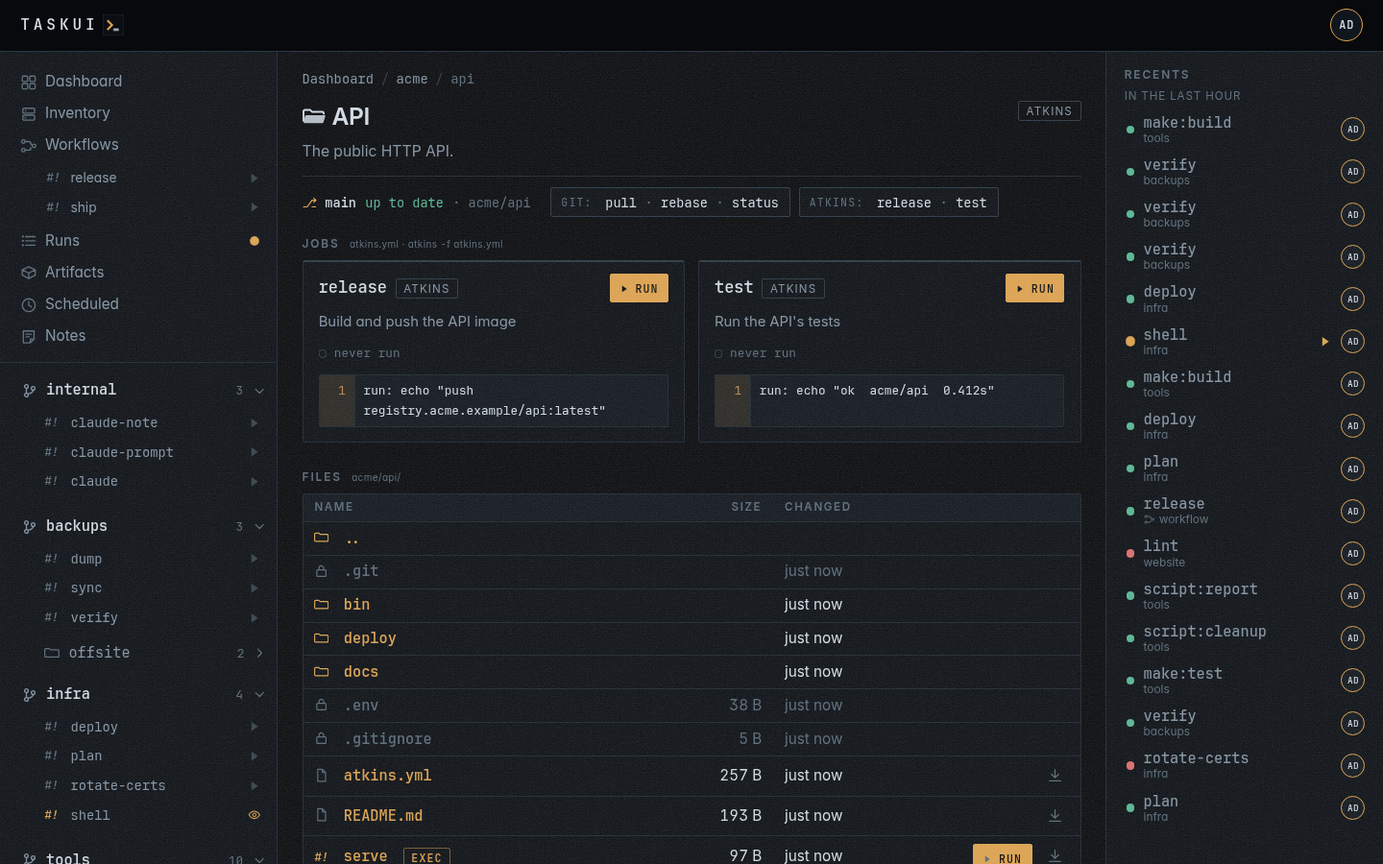
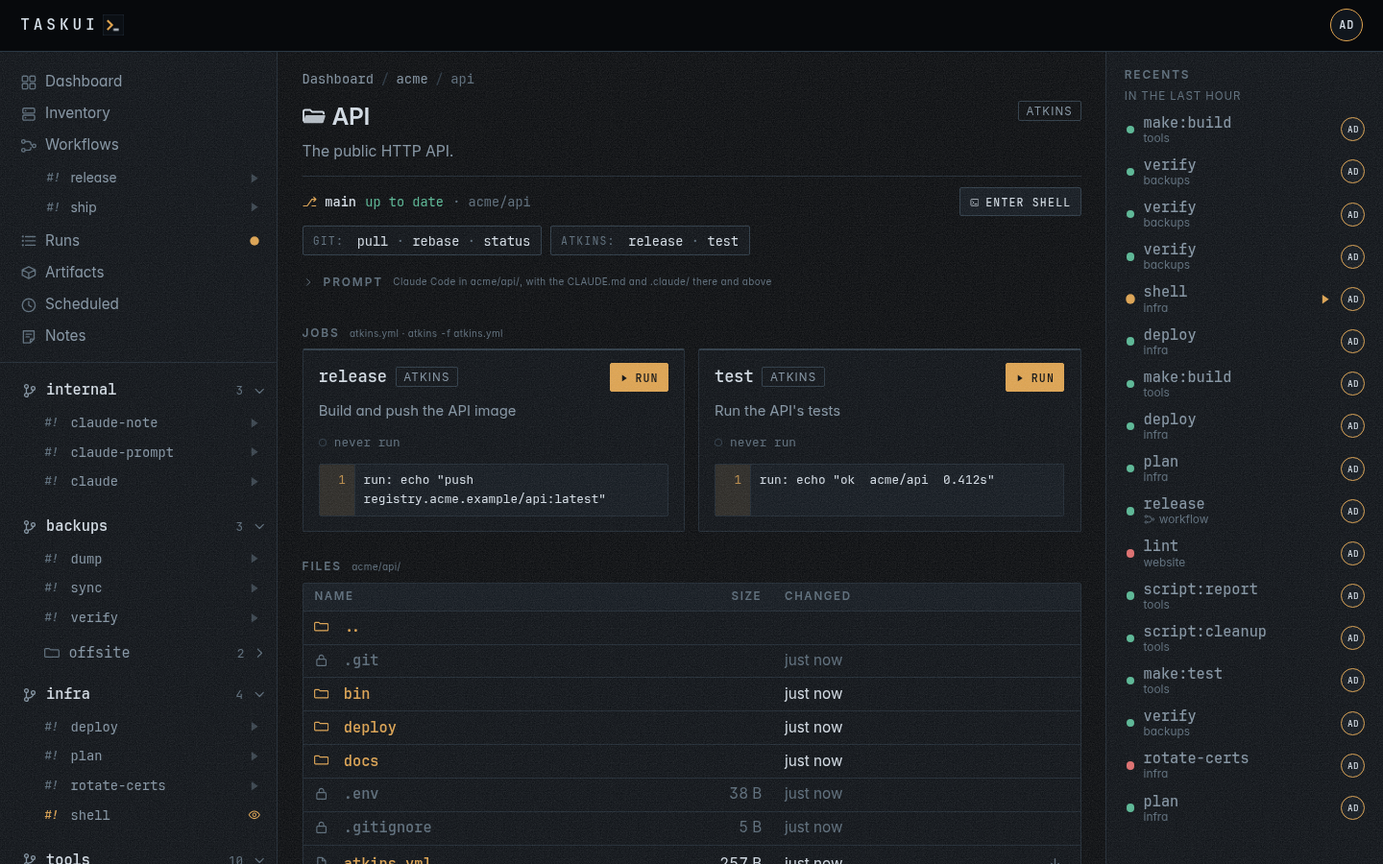
Docs: the actions bar, skills, Enter Shell and prompts; current shots
projects.md explains the git line, the chips and `...` for a job that
takes arguments, and where a prompt box opens. workspaces.md gains a
Skills section (when files/here/contains, a job's own when, args with
exec, an example compose skill, a link to the atkins guide), and its
atkins bullet says a project with its own pipeline still gets the
workspace's skills. mcp.md says what run_job takes: no dir or args, and
@shell answers 403 to all but an admin. notes.md and api.md name
TASK_UI_PROMPT_DIR and the prompt lock per directory on both routes.

#args=<job>;<line> opens a job's arguments field on load, for a link
and for the new args-dark shot. demo.sh captures it; the folder, files,
tools, sidebar, workspace prompt and actions shots show Enter Shell and
the bar as they are. README mentions the actions bar.

diff --git a/frontend/view/assets/task-ui.js b/frontend/view/assets/task-ui.js
@@ -2440,6 +2440,24 @@
     }
   })();
 
+  // #args=<job>[;<line>] opens the arguments field of a job on the page,
+  // the line typed in, so the field and what it runs can be shared.
+  (function openArgsFromHash() {
+    var match = /^#args=([^;]+)(?:;(.*))?$/.exec(location.hash);
+    if (!match) return;
+    var job = decodeURIComponent(match[1]);
+    var btn = Array.prototype.find.call(document.querySelectorAll("[data-run][data-args]"), function (b) {
+      return b.dataset.job === job;
+    });
+    if (!btn) return;
+    btn.click();
+    var input = document.querySelector("form.argsline input");
+    if (input && match[2]) {
+      input.value = decodeURIComponent(match[2]);
+      input.dispatchEvent(new Event("input"));
+    }
+  })();
+
   // The sidebar is a drawer under the breakpoint. #menu opens it on load.
   var menuToggle = document.getElementById("menu-toggle");
   if (menuToggle) {

diff --git a/docs/api.md b/docs/api.md
@@ -30,7 +30,7 @@ route or a tool only for a need these cannot serve, and states the reason.
 | `dir` and `args` on `POST /api/runs`, `dir` and `args` on run rows, `takes_args` and `exec` on jobs | The job cards of a directory inside a folder, such as `malta/dockerfiles` in the checkout of `malta`: that directory's own targets, run there under the folder's rules, which no folder or job ID named, and arguments for an atkins job that declares `args: true`, which reach it after `--` as argv; `exec` is the command they follow, the argv of the job's `exec:` step, for the field that takes them to show what runs. Run again repeats both. Schema `run_dir_args` adds the two columns |
 | `GET /api/folders/{id}/actions?dir=`, `@<skill>:<job>` as `job`, `dir` on `GET /api/runs` | The actions bar of a folder page and of a directory inside a folder: the git line of the checkout and the jobs of the atkins skills that apply in that directory. `/api/folders` lists the catalogued jobs only, and no route read `git status` or asked atkins for skills; a skill job had no job ID. A skill job runs `atkins <skill>:<job>` under the folder's rules; `run_job`, schedules and workflow steps take it too. `dir` with `job` on the runs listing keeps one directory's job apart from the folder's job of the same name. Read only, for whoever sees the folder |
 | `@shell` as `job` on `POST /api/runs` | **Enter Shell** in the actions bar: an admin's interactive `bash -l` in a folder's directory, or a directory inside it, which no job of a folder runs. `403` for anyone but an admin, whatever the folder allows; no schedule or workflow step takes it |
-| `POST /api/prompts` | The **Prompt** box of every folder page and every directory inside a folder: Claude Code on a prompt in that directory. `/api/workspaces/{folder}/prompt` names a workspace and no directory inside it, and runs one prompt at a time for the instance; a prompt holds its directory alone |
+| `POST /api/prompts` | The **Prompt** box of every folder page and every directory inside a folder: Claude Code on a prompt in that directory. `/api/workspaces/{folder}/prompt` names a workspace and no directory inside it; a prompt holds its directory alone, on either route |
 | `summarize` on `POST /api/inventory/run` | **Run and summarize** on the Inventory page: Claude reads every host's output as one report, after the run, in the same request |
 
 | Method | Path | Does |
@@ -59,7 +59,7 @@ route or a tool only for a need these cannot serve, and states the reason.
 | `POST` | `/api/inventory/run` | `{command, hosts, summarize}`: runs the command on the hosts over their ssh logins at once, every host with a login when `hosts` is empty; each host's `output`, `exit_code` and `error` (admins). With `summarize`, also the markdown `report` of every output and Claude's `summary` of it, or `summary_error` |
 | `GET` `POST` `PUT` `DELETE` | `/api/projects`, `/api/projects/{folder}` | clone `{url, id, branch, workspace}`, into `<workspace>/<id>` when `workspace` names one, at the root for `_` or empty; `409` at the root for a workspace's name or a directory there; configure `{title, description, allow, sources, commands, job_allow, hours, job_hours, workspace}`; a `workspace` other than the project's moves it, answering the row with `left`, and `409` for a workspace, a missing target, a taken ID or a run going |
 | `GET` `POST` `PUT` `DELETE` | `/api/workspaces`, `/api/workspaces/{folder}` | clone `{url, folder, title, description, branch}` into `<root>/<folder>`, with its key directories and no encryption key; `409` for a folder a workspace, a project or a directory holds; `PUT {title, description, sort}`, the lowest sort first, left out it stays; `DELETE` removes the checkout, the projects inside it and their rows, their managed env files, its secrets and its keys; the default workspace `_`, the root, lists first, keeps its sort, and `DELETE` answers `409` (admins) |
-| `POST` | `/api/workspaces/{folder}/prompt` `{prompt, cols, rows}` | starts `internal/claude-prompt` as you, with `TASK_UI_PROMPT` and the workspace in `TASK_UI_WORKSPACE_DIR`, and answers `201` with the run; `400` for an empty prompt, `409` while a prompt runs in the workspace's directory (admins) |
+| `POST` | `/api/workspaces/{folder}/prompt` `{prompt, cols, rows}` | starts `internal/claude-prompt` as you in the workspace's checkout, with `TASK_UI_PROMPT` and the workspace in `TASK_UI_WORKSPACE_DIR`, and answers `201` with the run; `400` for an empty prompt, `409` while a prompt runs in the workspace's directory (admins) |
 | `POST` | `/api/prompts` `{folder, dir, prompt, cols, rows}` | starts `internal/claude-prompt` as you in the folder's directory, or `dir` inside it, with `TASK_UI_PROMPT`, the directory in `TASK_UI_PROMPT_DIR` and the folder's workspace, and answers `201` with the run, whose `dir` is the directory under the root; `400` for an empty prompt, `404` for a directory the folder's Files would not open, `409` with the run while a prompt runs in that directory (admins) |
 | `POST` | `/api/workspaces/{folder}/export` `{passphrase}`, `/api/workspaces/import` (multipart: `bundle`, `passphrase`, `folder`) | export answers the workspace as `<folder>.taskui-ws`, encrypted to the passphrase: its row, projects, env files, secrets as ciphertext, key files and grants; import adds it under `folder`, the bundle's own when left out and required for `_`, clones its projects and answers `201 {workspace, projects: [{folder, cloned, output}], unknown_users}`; `400` for a wrong passphrase or a bundle it refuses, `409` for a folder held and for bundled keys held here for the other use or an encryption key another workspace holds, at most 64 MiB (admins) |
 | `GET` `POST` `PUT` `DELETE` | `/api/workspaces/{folder}/keys`, `/keys/generate`, `/keys/upload`, `/keys/{name}` | a workspace's keys, public halves and fingerprints only: `encrypt`, `keys` with their backups, `policies` and `users` by key name; generate `{type, name, comment, policies, users}`, upload `{content, name, comment, policies, users}` as `id_<type>_<name>`; a key without a grant goes to every run in the workspace; `PUT` sets `{policies, users}`, `DELETE` removes a key and its grants; `encrypt: true` on generate or upload adds the ed25519 encryption key a workspace starts without, or rotates or replaces it, which no run gets and no route deletes, and writes the workspace's secrets again, `rekeyed` their count, `rekey_error` when that fails and the backup still opens them; upload answers `409` for key material held for the other use by the instance or any workspace, and for an encryption key another workspace or the instance holds (admins) |

diff --git a/docs/guide/workspaces.md b/docs/guide/workspaces.md
@@ -28,12 +28,80 @@ find the workspace's files by looking in the folders above the project:
 - **Claude Code** reads the `CLAUDE.md` and `.claude/` of the folders
   above its working directory, so a run in `malta/dockerfiles` reads the
   workspace's as well as the project's own.
-- **atkins** looks for its configuration from the working directory up,
-  and stops at the first folder with an `atkins.yml`, an `.atkins.yml` or
-  an `.atkins/` folder. A project without one uses the workspace's
-  pipeline and its `.atkins/skills`. A project with its own `atkins.yml`
-  stops there: atkins reads the skills in the project's `.atkins/skills`
-  and in `$HOME/.atkins/skills`, and not the workspace's.
+- **atkins** looks for its pipeline from the working directory up, and
+  stops at the first folder with an `atkins.yml`, an `.atkins.yml` or an
+  `.atkins/` folder: a project without one runs the workspace's pipeline.
+  Its skills come from further: the `.atkins/skills` of the working
+  directory and of every folder above it, nearest first, then
+  `$HOME/.atkins/skills`. A project with a pipeline of its own still gets
+  the workspace's skills, and a project skill of the same name shadows
+  the workspace's.
+
+## Skills
+
+The skills of a workspace's `.atkins/skills/` put chips on the [actions
+bar](projects.md#actions) of every project and directory inside it:
+`[git: pull · rebase]` on each checkout, `[compose: down · up]` beside
+a compose file. A skill is an atkins
+pipeline file, `<name>.yml`, its jobs named `<name>:<job>`, and its
+`when:` decides where it applies:
+
+- `files:` lists the files that turn it on, any one of them, looked for
+  in the directory and then in each folder above it. A name with `*`,
+  `?` or `[...]` is a glob. A skill without `when:` applies everywhere.
+- `here: true` looks in the directory alone, so a compose skill shows on
+  the directory holding `compose.yml` and not on the folders under it.
+- `contains:` is a regular expression the matched file must match, such
+  as a compose file with a `build:` key.
+- A job takes a `when:` of its own, with the same keys. Where it fails,
+  the job has no chip and a run of it fails, and the rest of the skill
+  stays.
+- `args: true` on a job takes arguments after `--`, which atkins appends
+  to the job's `exec:` steps as argv, with no shell between. Its chip
+  reads `custom...` and opens a field for them (see
+  [Runs](runs.md#what-a-job-gets)).
+
+A skill job runs in the directory of the file its `when:` matched, so
+`git: pull` runs at the top of the checkout and `compose: up` beside the
+compose file. One without `when:` runs in the folder that holds its
+`.atkins/`.
+
+`<workspace>/.atkins/skills/compose.yml`:
+
+```yaml
+name: Docker Compose
+when:
+  files: [compose.yml, compose.yaml]
+  here: true
+
+jobs:
+  up:
+    desc: Start the services
+    cmd: docker compose up -d --remove-orphans
+  down:
+    desc: Stop and remove the services
+    cmd: docker compose down
+  build:
+    desc: Build the service images
+    when:
+      files: [compose.yml, compose.yaml]
+      here: true
+      contains: '(?m)^\s+build:'
+    cmd: docker compose build
+  custom:
+    desc: Run docker compose with arguments
+    args: true
+    steps:
+      - exec: [docker, compose]
+```
+
+In a directory whose `compose.yml` builds an image, the chip reads
+`[compose: build · custom... · down · up]`; beside one that only pulls
+images, the chip leaves `build` out. `atkins -l` in a directory lists what applies
+there, as the bar does. The atkins [skills
+guide](https://github.com/titpetric/atkins/blob/main/docs/content/usage/skills.md)
+covers the rest: aliases, `help:`, the `-l --json` fields task-ui reads,
+vendoring.
 
 ## Add, edit and delete
 
@@ -287,22 +355,22 @@ per trust boundary.
 
 ## A prompt against a workspace
 
-A workspace's folder page, `/f/malta`, carries a **Prompt** block for an
-admin once the [Claude Code integration](settings.md#integrations) has a
-token for them. The prompt runs `internal/claude-prompt` as you, and its
-window opens on the run.
+A workspace's folder page, `/f/malta`, carries the **Prompt** box open
+for an admin once the [Claude Code integration](settings.md#integrations)
+has a token for them; every other folder page, and every directory inside
+a folder, carries it folded (see [Prompt](projects.md#prompt)). The
+prompt runs `internal/claude-prompt` as you, and its window opens on the
+run.
 
-![The Prompt block on a workspace's page](../assets/workspace-prompt-dark.png)
+![The Prompt box on a workspace's page](../assets/workspace-prompt-dark.png)
 
 Claude Code works in the workspace's checkout, so it reads the
 workspace's `CLAUDE.md` and `.claude/`. The run's environment holds the
-prompt in `TASK_UI_PROMPT` and the checkout in `TASK_UI_WORKSPACE_DIR`;
-`task-ui agent prompt` works in `TASK_UI_PROMPT_DIR` when a prompt names
-a directory, and exits with an error when the prompt or both directories
-are empty. The run lists under Runs like any other, in the internal
-folder only admins see. Every folder page, and every directory inside a
-folder, takes a prompt the same way: see
-[Prompt](projects.md#prompt).
+prompt in `TASK_UI_PROMPT` and the checkout in `TASK_UI_WORKSPACE_DIR`.
+`task-ui agent prompt` works in `TASK_UI_PROMPT_DIR`, which a prompt of a
+folder or a directory sets, or else in `TASK_UI_WORKSPACE_DIR`, and exits
+with an error when the prompt or both directories are empty. The run
+lists under Runs like any other, in the internal folder only admins see.
 
 ```sh
 curl -s -X POST https://task.example.com/api/workspaces/malta/prompt \
@@ -311,9 +379,10 @@ curl -s -X POST https://task.example.com/api/workspaces/malta/prompt \
 ```
 
 The reply is the run, with its `id`; `GET /api/runs/{id}` and the
-recording follow it. A second prompt in the workspace while one runs
-there answers `409`. The route is `POST /api/prompts` for the workspace's
-own directory.
+recording follow it. The run starts in the workspace's checkout and
+holds that directory as `POST /api/prompts` holds one: a second prompt
+there while one runs answers `409`, and a prompt in a project of the
+workspace runs beside it.
 
 ---
 

diff --git a/docs/guide/projects.md b/docs/guide/projects.md
@@ -159,37 +159,44 @@ on load.
 ![The actions bar of a directory: the git line, then git, compose and dockerfile chips](../assets/actions-dark.png)
 
 The bar under a folder's title, and under a directory's inside a folder,
-has two parts:
+has two parts, and **Enter Shell** at its top right for an admin:
 
-- **The git line**: `⎇ main ↑1 ↓3 ●2 · malta/dockerfiles`. The branch of
-  the checkout the page is in, the nearest one up from it and no higher
-  than the root, or the commit of a detached checkout; `↑` the commits
-  to push, `↓` those to pull from its upstream as last fetched, `●` the
-  files changed or untracked; then where the checkout is. Hover it for
-  the upstream. The line reads `git status` and stays good for 5 seconds.
+- **The git line**: `⎇ main ↑1 ↓3 ●2 · malta/dockerfiles`. It reads the
+  checkout the page is in, the nearest one up from it and no higher than
+  the root: its branch, or `detached` and the commit of a checkout off any
+  branch; `↑` the commits to push and `↓` those to pull from its upstream,
+  as last fetched; `●` the files changed or untracked; then where the
+  checkout is. A checkout level with its upstream and with nothing changed
+  reads `up to date`. Hover it for the upstream. The line reads
+  `git status` and stays good for 5 seconds; it changes nothing, and the
+  pulls are jobs of the git chip.
 - **Chips**: one per [atkins](https://github.com/titpetric/atkins) skill
   that applies there, such as `[git: pull · rebase · status]` or
-  `[compose: build · custom · down · pull · up]`, and an `[atkins: default · build]`
-  chip of the place's own pipeline jobs. task-ui asks
-  `atkins -l --json --all` in the directory, as a page opens, and keeps
-  what it lists for 30 seconds, or until the pipeline file or a skill file
-  changes; an atkins that is missing, fails or takes longer than 3
-  seconds shows no chips. A skill comes from a `.atkins/skills/` folder
-  of the directory or of any directory above it, and applies where its
+  `[compose: build · custom... · down · pull · up]`, and an
+  `[atkins: default · build]` chip of the place's own pipeline jobs.
+  A skill comes from a `.atkins/skills/` folder of the directory or of any
+  directory above it, a workspace's among them, and applies where its
   `when:` holds; a job of it with a `when:` of its own that fails, such
   as `compose: build` beside a compose file that builds nothing, has no
-  chip. Hover a chip for what the skill is and the file its `when:`
-  matched.
+  chip ([Workspaces](workspaces.md#skills) shows how to write one).
+  Hover a chip for what the skill is and the file its `when:` matched.
+  task-ui asks `atkins -l --json --all` in the directory as a page opens,
+  and keeps what it lists for 30 seconds, or until the pipeline file or a
+  skill file changes; an atkins that is missing, fails or takes longer
+  than 3 seconds shows no chips.
 
 Each job of a chip is a **Run**, which opens the run's window as a job
 card's does, and **Attach** while it runs; a user who may not run it gets
-a link to its page. A skill job is the job `@<skill>:<job>` of the
-folder, such as `@git:status`: it runs `atkins git:status` in the
-directory of the file the skill's `when:` matched, the checkout for git,
-the directory of the compose file for compose, under the folder's allow
-rules and hours, and keeps its history under that directory. A skill
-that matched above the folder runs in the folder's own directory, where
-atkins finds it again.
+a link to its page. A job whose name ends in `...`, such as
+`compose: custom...`, takes arguments: its Run opens a field for them
+first (see [Runs](runs.md#what-a-job-gets)).
+
+A skill job is the job `@<skill>:<job>` of the folder, such as
+`@git:status`: it runs `atkins git:status` in the directory of the file
+the skill's `when:` matched, the checkout for git, the directory of the
+compose file for compose, under the folder's allow rules and hours, and
+keeps its history under that directory. A skill that matched above the
+folder runs in the directory of the page, where atkins finds it again.
 
 **compose up** and **down** of the compose project task-ui itself runs
 in ask first: they stop or recreate the instance and every run in it.
@@ -219,10 +226,11 @@ button shows to admins alone. No schedule or workflow step takes
 
 An admin with a token in the [Claude Code integration](settings.md#integrations)
 gets a **Prompt** box under the bar of every folder page and every
-directory inside a folder, folded until clicked. The prompt runs
-`internal/claude-prompt` as you, with Claude Code in that directory, so it
-reads the `CLAUDE.md` and `.claude/` there and above, and its window opens
-on the run.
+directory inside a folder: open on a workspace's page and on `/f/_`,
+which prompts at the root, and folded elsewhere until clicked. The
+prompt runs `internal/claude-prompt` as you, with Claude Code in that
+directory, so it reads the `CLAUDE.md` and `.claude/` there and above,
+and its window opens on the run.
 
 ```sh
 curl -s -X POST https://task.example.com/api/prompts \
@@ -230,11 +238,12 @@ curl -s -X POST https://task.example.com/api/prompts \
   -d '{"folder": "malta", "dir": "dockerfiles/blog", "prompt": "what does this image build"}'
 ```
 
-The run is `internal/claude-prompt` of that directory under the root,
-such as `internal/malta/dockerfiles/blog`, and the directory in
-`TASK_UI_PROMPT_DIR`. One prompt runs per directory: a second there
+The run is `internal/claude-prompt` with the directory under the root as
+its `dir`, such as `malta/dockerfiles/blog`, and the absolute directory
+in `TASK_UI_PROMPT_DIR`. One prompt runs per directory: a second there
 answers `409` with the run in the way, and prompts in two directories
-run at once.
+run at once. A workspace's prompt route works the same way (see
+[Workspaces](workspaces.md#a-prompt-against-a-workspace)).
 
 ## A job's page
 

diff --git a/docs/screenshots.md b/docs/screenshots.md
@@ -10,16 +10,16 @@ it with headless chromium; `task docs:shots` regenerates them into
 | ![Workflows: chains of jobs, a step can be another workflow](assets/workflows-dark.png) | ![A workflow: its chain, its runs and the steps of each](assets/workflow-dark.png) |
 | ![The runs](assets/runs-dark.png) | ![A run's page](assets/run-page-dark.png) |
 | ![A run in its window, attached](assets/run-dark.png) | ![A run in its window, light theme](assets/run-light.png) |
-| ![A folder: its jobs, files, folder and env files](assets/folder-dark.png) | ![A folder, light theme](assets/folder-light.png) |
+| ![A folder: the actions bar with its git line, its jobs, files, folder and env files](assets/folder-dark.png) | ![A folder, light theme](assets/folder-light.png) |
 | ![A job: what it runs, its history and schedules](assets/job-dark.png) | ![A job as a viewer sees it](assets/viewer-job-dark.png) |
 | ![A folder with a Makefile, package scripts and a scripts folder](assets/tools-dark.png) | ![Out of hours: Run force asks why](assets/out-of-hours-dark.png) |
 | ![Artifacts](assets/artifacts-dark.png) | ![Scheduled](assets/schedules-dark.png) |
 | ![Settings](assets/settings-dark.png) | ![Projects](assets/projects-dark.png) |
 | ![Add a project from git](assets/project-new-dark.png) | ![Configure a folder](assets/project-edit-dark.png) |
 | ![Workspaces: checkouts that hold projects, and Import](assets/workspaces-dark.png) | ![The sidebar with a workspace open, its projects under it](assets/sidebar-workspace-dark.png) |
-| ![A workspace's page, with the Prompt block](assets/workspace-prompt-dark.png) | ![Configure a workspace: its keys, and Export](assets/workspace-edit-dark.png) |
+| ![A workspace's page, with the Prompt box open](assets/workspace-prompt-dark.png) | ![Configure a workspace: its keys, and Export](assets/workspace-edit-dark.png) |
 | ![A project's Files: .git and .env sealed, a file that runs marked exec](assets/files-dark.png) | ![A file of the checkout in the preview window](assets/file-dark.png) |
-| ![A directory's actions bar: the git line, and the git, compose and dockerfile skills](assets/actions-dark.png) | |
+| ![A directory's actions bar: the git line, Enter Shell, and the git, compose and dockerfile skills](assets/actions-dark.png) | ![The arguments field of compose: custom..., and the argv it runs](assets/args-dark.png) |
 | ![Users, from the password file](assets/users-dark.png) | ![Secrets, grouped by workspace, each on its own key](assets/secrets-dark.png) |
 | ![Add a secret](assets/secret-new-dark.png) | ![An env file](assets/envfile-dark.png) |
 | ![SSH keys](assets/keys-dark.png) | ![Generate a key](assets/keys-generate-dark.png) |

diff --git a/docs/README.md b/docs/README.md
@@ -57,8 +57,8 @@ and red for failed or killed, and pulsing amber while it runs.
 | [Artifacts](guide/artifacts.md)      | Artifacts                              | Files the runs leave behind                                 |
 | [Scheduled](guide/scheduled.md)      | Scheduled                              | Jobs on a cron expression                                   |
 | [Notes](guide/notes.md)              | Notes                                  | Messages, replies, and instructions to the agent            |
-| [Projects and jobs](guide/projects.md) | The tree of projects, folders, jobs  | Folders, the conventions, files, a job's page, moving a project, pulls, keys, hours |
-| [Workspaces](guide/workspaces.md)    | A workspace's row, its projects under it | Shared tooling, cloning into one, keys, secrets, export and import, what it keeps apart, the prompt |
+| [Projects and jobs](guide/projects.md) | The tree of projects, folders, jobs  | Folders, the conventions, files, the actions bar, Enter Shell, the prompt, a job's page, moving a project, pulls, keys, hours |
+| [Workspaces](guide/workspaces.md)    | A workspace's row, its projects under it | Shared tooling, skills, cloning into one, keys, secrets, export and import, what it keeps apart, the prompt |
 | [Recents](guide/recents.md)          | Recents                                | The latest runs, by anyone                                  |
 | [Settings](guide/settings.md)        | The user menu, Settings                | Projects, workspaces, users, secrets, SSH keys, integrations, env files |
 | [MCP](guide/mcp.md)                  |                                        | Tokens, and the tools an agent runs jobs with               |

diff --git a/docs/guide/notes.md b/docs/guide/notes.md
@@ -55,7 +55,7 @@ jobs, the agent's included. No checkout or project takes the name.
 | Job             | Runs                         | What it does                                                                                     |
 |-----------------|------------------------------|--------------------------------------------------------------------------------------------------|
 | `claude-note`   | `task-ui agent note`         | Claude Code on the thread in `TASK_UI_NOTE`, in the root; its answer goes to `TASK_UI_NOTE_REPLY` |
-| `claude-prompt` | `task-ui agent prompt`       | Claude Code on `TASK_UI_PROMPT`, in the workspace checkout `TASK_UI_WORKSPACE_DIR`                |
+| `claude-prompt` | `task-ui agent prompt`       | Claude Code on `TASK_UI_PROMPT`, in `TASK_UI_PROMPT_DIR`, or else the workspace checkout `TASK_UI_WORKSPACE_DIR` |
 | `claude`        | `task-ui agent shell [args]` | Claude Code in a terminal, in the root, for an admin at the keyboard                             |
 
 Each signs in with `CLAUDE_CODE_OAUTH_TOKEN` from the Claude Code

diff --git a/README.md b/README.md
@@ -12,7 +12,10 @@ Projects live in workspaces: a checkout of shared tooling with the
 projects cloned inside it, its own secrets and SSH keys, and an export
 that moves it, keys and all, to another instance. A project's Files
 panel browses its checkout like a file manager: a file opens in a
-preview window, and a file that runs gets a Run button.
+preview window, and a file that runs gets a Run button. Every folder
+and directory has an actions bar: the git state of its checkout, a chip
+per atkins skill that applies there, and, for an admin, a shell and a
+Claude Code prompt in that directory.
 
 ![The dashboard: every terminal in progress, as it looks right now](https://raw.githubusercontent.com/titpetric/task-ui/main/docs/assets/task-ui.png)
 

diff --git a/docs/guide/mcp.md b/docs/guide/mcp.md
@@ -86,6 +86,14 @@ connected.
 A run started over MCP is like any other: it shows in the history, anyone
 allowed can watch it, and it goes on if the agent stops waiting.
 
+`run_job` takes the job IDs the folder's page runs: a job of
+`list_jobs`, `./<path>` for a file of the folder that runs, and
+`@<skill>:<job>` for a job of an atkins skill that applies in the
+folder's own directory, such as `@git:status`. It has no `dir` and no
+`args`: the targets of a directory inside a folder and a job's arguments
+start from the browser or `POST /api/runs`. `@shell`, the interactive
+shell of **Enter Shell**, answers `403` to every token but an admin's.
+
 ## A frozen surface
 
 These nine tools, like the JSON API behind them, are the whole surface,

diff --git a/docs/guide/runs.md b/docs/guide/runs.md
@@ -141,7 +141,11 @@ as `docker compose`, or the job's own argv and `--`. Below it, task-ui
 shows the whole command as each word reaches it, `docker compose ps -a '; id'`,
 or says a quote does not close; **Run** sends the line, Esc or **Cancel**
 closes the field. The job's `exec` in `GET /api/folders` is the same
-command.
+command. A link to the page with `#args=<job>;<line>`, such as
+`/f/acme/api/deploy#args=@compose:custom;ps%20-a`, opens the field of
+that job on load with the line typed in.
+
+![The field of compose: custom..., and the argv it runs](../assets/args-dark.png)
 
 Before the job, a folder in a git checkout pulls it, in the run's own
 terminal; when the pull fails, the run fails with it. A folder in a
